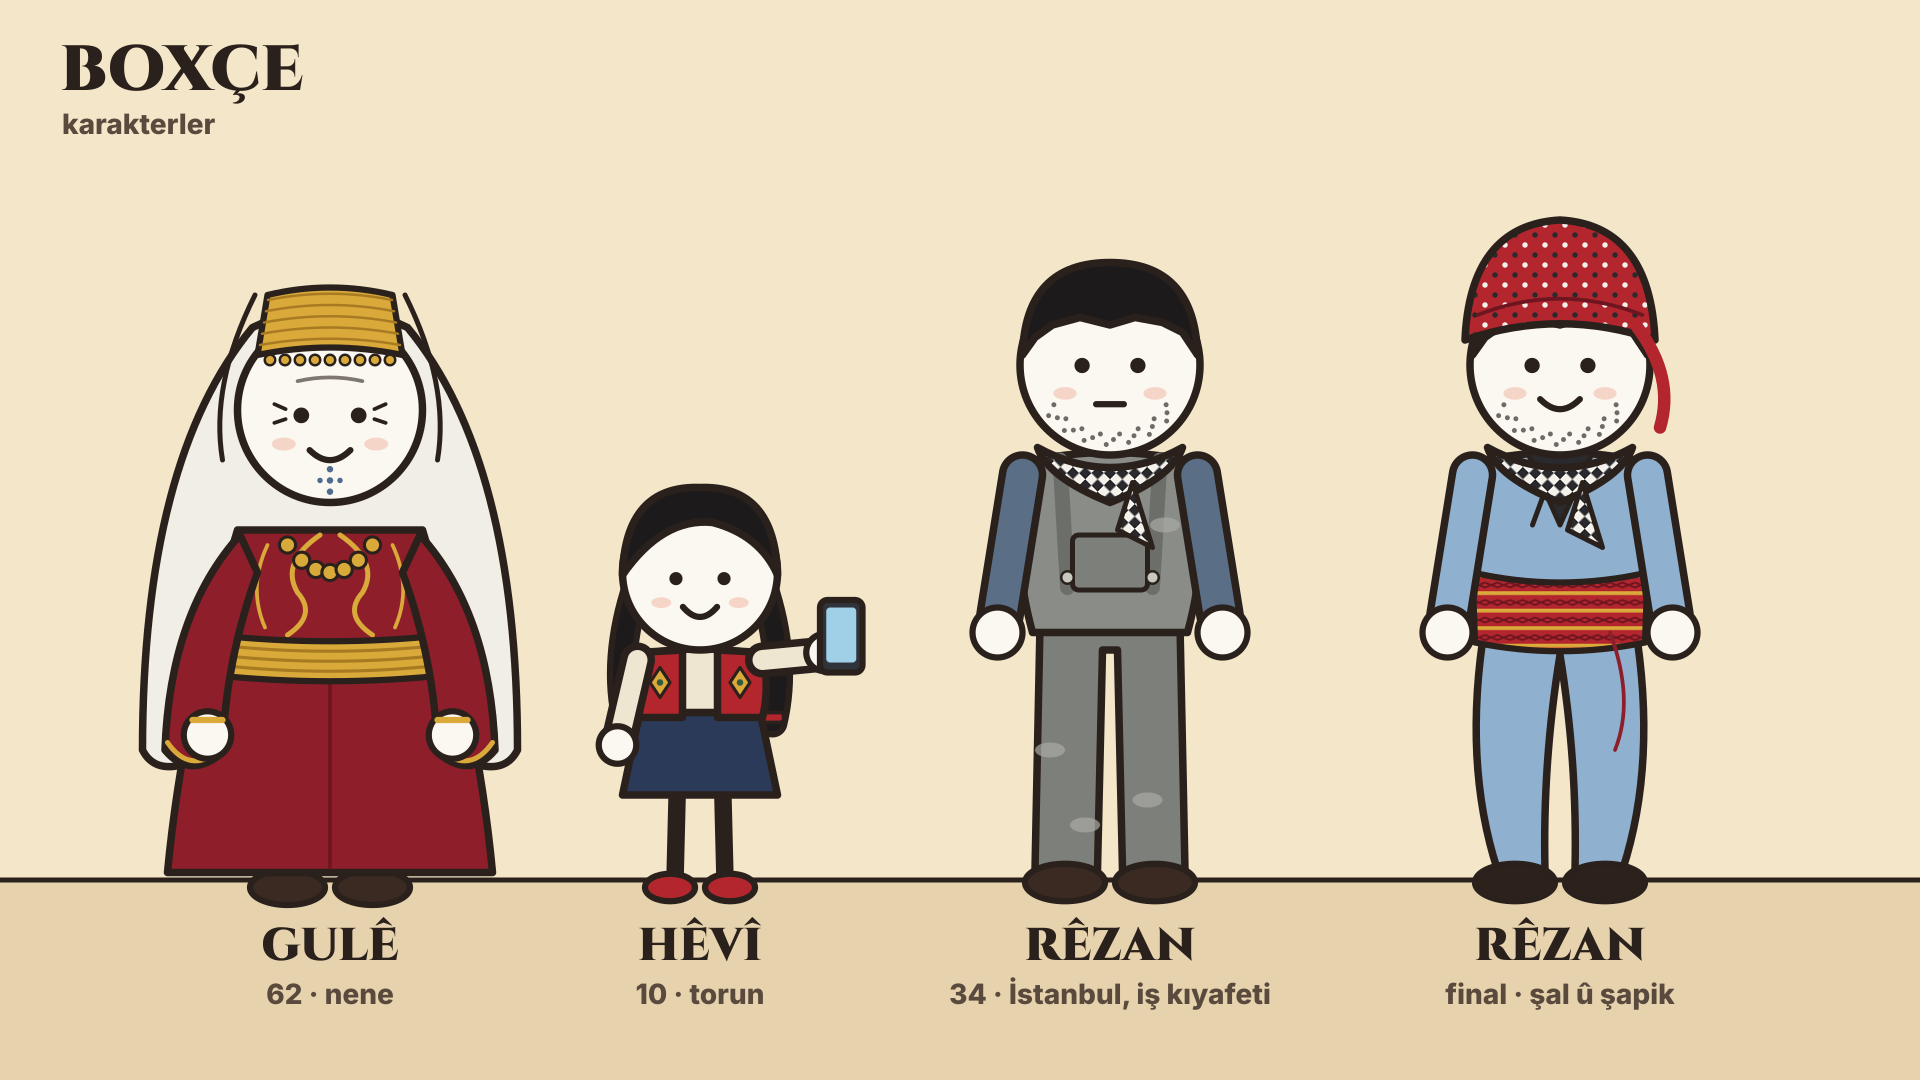
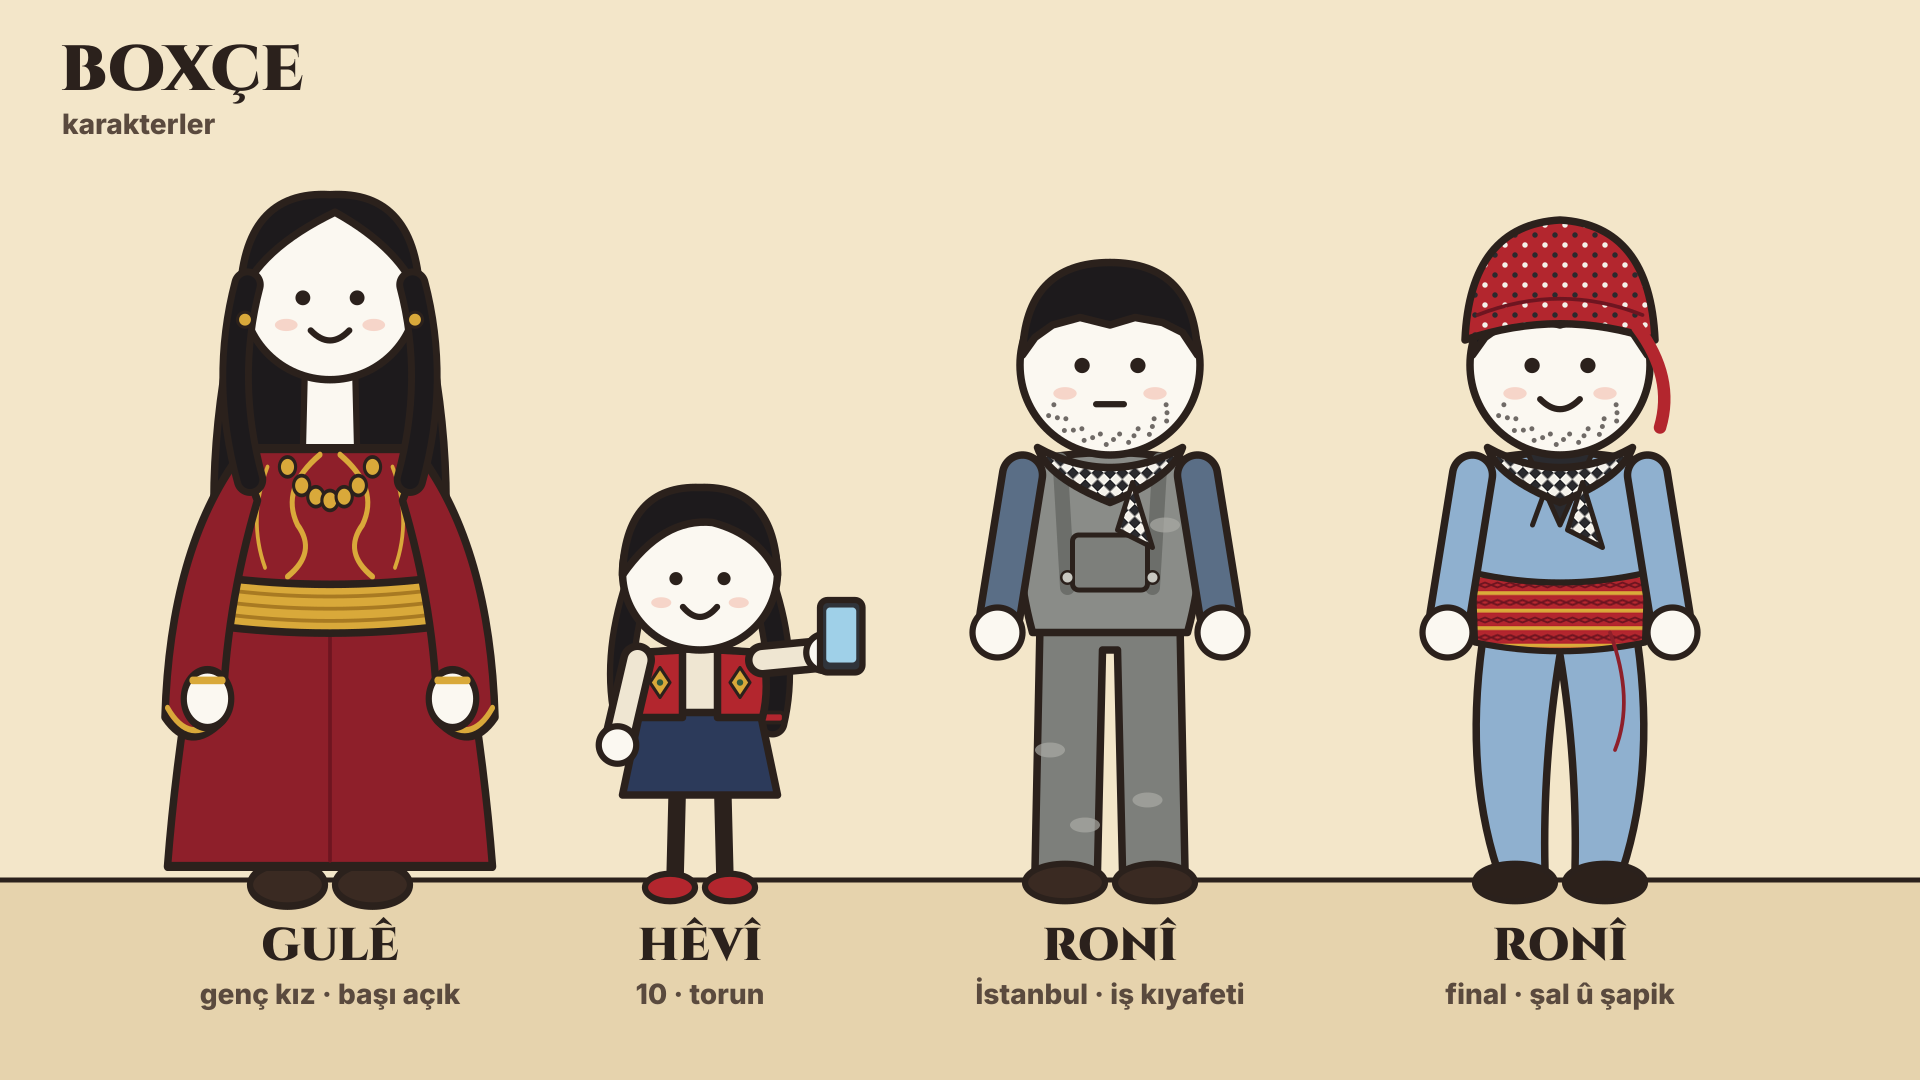
Redraw Gulê as a tall young woman with uncovered hair; rename Rêzan to Ronî
Claude-Session: https://claude.ai/code/session_01YRTfoLGFZnLQwPSsrezw2i

diff --git a/film/boxce/2d/karakter.py b/film/boxce/2d/karakter.py
@@ -147,70 +147,70 @@ def _kember(y, w):
 
 
 def gule(mouth="smile", blink=False, look=0.0, arm="down", writing=False):
-    """Nene, ~470 px. Kofî + uzun beyaz tül, kırmızı kiras (sarkan kollar, altın sırma),
-    altın kemer, para kolye, deq."""
+    """Genç, uzun boylu kız, ~575 px. Başı açık: bele kadar uzun siyah saç.
+    Kırmızı kiras (sarkan kollar, altın sırma), geniş altın kemer, para kolye."""
+    TALL = 1.22                      # vücut dikey uzatma
+    hy = -392 * TALL - 8             # kafa merkezi
+    hr = 70
     g = []
-    hy = -392
-    hr = 74
-    # beyaz tül: başın üstünden dizlere kadar arkaya düşer
-    g.append(path(f"M-62 {hy - 66} Q-150 {hy + 40} -150 -120 Q-140 -100 -112 -110 L112 -110 "
-                  f"Q140 -100 150 -120 Q150 {hy + 40} 62 {hy - 66} Q0 {hy - 96} -62 {hy - 66} Z", "#f1eee6"))
+    # arka saç: bele kadar
+    g.append(path(f"M{-hr + 2} {hy - 10} Q{-hr - 34} {hy + 120} {-hr - 18} {hy + 250} "
+                  f"Q0 {hy + 280} {hr + 18} {hy + 250} Q{hr + 34} {hy + 120} {hr - 2} {hy - 10} Z", "#1d1a1c"))
+    b = []
     # ayaklar
-    g.append(ellipse(-34, -10, 30, 14, "#3a2a22", sw=5))
-    g.append(ellipse(34, -10, 30, 14, "#3a2a22", sw=5))
+    b.append(ellipse(-34, -10, 30, 14, "#3a2a22", sw=5))
+    b.append(ellipse(34, -10, 30, 14, "#3a2a22", sw=5))
     # kiras (yere kadar)
-    g.append(path(f"M-74 -296 Q-118 -150 -130 -22 L130 -22 Q118 -150 74 -296 Z", KIRAS))
-    g.append(path("M0 -200 L0 -26", "none", stroke="#6e1520", sw=3))
+    b.append(path(f"M-74 -296 Q-118 -150 -130 -22 L130 -22 Q118 -150 74 -296 Z", KIRAS))
+    b.append(path("M0 -200 L0 -26", "none", stroke="#6e1520", sw=3))
     # göğüs sırma işlemesi (altın kıvrımlar)
     for sgn in (-1, 1):
-        g.append(path(f"M{sgn * 8} -292 Q{sgn * 40} -270 {sgn * 26} -246 Q{sgn * 10} -228 {sgn * 34} -212",
+        b.append(path(f"M{sgn * 8} -292 Q{sgn * 40} -270 {sgn * 26} -246 Q{sgn * 10} -228 {sgn * 34} -212",
                       "none", stroke=GOLD, sw=4))
-        g.append(path(f"M{sgn * 50} -284 Q{sgn * 66} -250 {sgn * 52} -218", "none", stroke=GOLD, sw=3))
+        b.append(path(f"M{sgn * 50} -284 Q{sgn * 66} -250 {sgn * 52} -218", "none", stroke=GOLD, sw=3))
     # para kolye
     for i in range(7):
         t = (i - 3) / 3
-        g.append(circle(t * 34, -284 + (1 - t * t) * 22, 6.5, GOLD, sw=2.5))
-    g.append(_kember(-196, 92))
+        b.append(circle(t * 34, -284 + (1 - t * t) * 22, 6.5, GOLD, sw=2.5))
+    b.append(_kember(-196, 92))
     # kollar: geniş, sarkan kiras kolları
     if arm == "down":
         for s in (-1, 1):
-            g.append(path(f"M{s * 72} -292 Q{s * 128} -230 {s * 132} -120 Q{s * 112} -96 {s * 86} -118 "
+            b.append(path(f"M{s * 72} -292 Q{s * 128} -230 {s * 132} -120 Q{s * 112} -96 {s * 86} -118 "
                           f"Q{s * 84} -190 {s * 58} -262 Z", KIRAS))
-            g.append(path(f"M{s * 130} -126 Q{s * 112} -100 {s * 88} -120", "none", stroke=GOLD, sw=4))
-            g.append(hand(s * 98, -132))
-            g.append(path(f"M{s * 86} -144 L{s * 110} -144", "none", stroke=GOLD, sw=5))  # bilezik
+            b.append(path(f"M{s * 130} -126 Q{s * 112} -100 {s * 88} -120", "none", stroke=GOLD, sw=4))
+            b.append(hand(s * 98, -132))
+            b.append(path(f"M{s * 86} -144 L{s * 110} -144", "none", stroke=GOLD, sw=5))  # bilezik
     elif arm == "front":
         for s in (-1, 1):
-            g.append(path(f"M{s * 72} -292 Q{s * 130} -230 {s * 110} -150 Q{s * 80} -140 {s * 40} -188 "
+            b.append(path(f"M{s * 72} -292 Q{s * 130} -230 {s * 110} -150 Q{s * 80} -140 {s * 40} -188 "
                           f"Q{s * 60} -230 {s * 56} -262 Z", KIRAS))
-            g.append(path(f"M{s * 108} -156 Q{s * 76} -144 {s * 44} -186", "none", stroke=GOLD, sw=4))
-            g.append(hand(s * 42, -196))
+            b.append(path(f"M{s * 108} -156 Q{s * 76} -144 {s * 44} -186", "none", stroke=GOLD, sw=4))
+            b.append(hand(s * 42, -196))
         if writing:
-            g.append(line(52, -210, 78, -246, stroke="#c79a3a", sw=7))
-            g.append(line(52, -210, 48, -202, stroke=INK, sw=4))
+            b.append(line(52, -210, 78, -246, stroke="#c79a3a", sw=7))
+            b.append(line(52, -210, 48, -202, stroke=INK, sw=4))
     elif arm == "phone":
-        g.append(path("M-72 -292 Q-128 -230 -132 -120 Q-112 -96 -86 -118 Q-84 -190 -58 -262 Z", KIRAS))
-        g.append(hand(-98, -132))
-        g.append(path("M72 -292 Q126 -310 104 -362 L70 -352 Q82 -316 56 -276 Z", KIRAS))
-        g.append(f'<rect x="66" y="-420" width="26" height="52" rx="6" fill="#30343a" stroke="{INK}" stroke-width="5"/>')
-        g.append(hand(84, -372))
+        b.append(path("M-72 -292 Q-128 -230 -132 -120 Q-112 -96 -86 -118 Q-84 -190 -58 -262 Z", KIRAS))
+        b.append(hand(-98, -132))
+        b.append(path("M72 -292 Q126 -310 104 -362 L70 -352 Q82 -316 56 -276 Z", KIRAS))
+        b.append(f'<rect x="66" y="-420" width="26" height="52" rx="6" fill="#30343a" stroke="{INK}" stroke-width="5"/>')
+        b.append(hand(84, -372))
+    # boyun (arka saçın önünde, elbisenin arkasında)
+    g.append(path(f"M-20 {hy + hr - 14} L-22 {-296 * TALL + 14} L22 {-296 * TALL + 14} L20 {hy + hr - 14} Z", SKIN, sw=5))
+    g.append(f'<g transform="scale(1,{TALL})">' + "\n".join(b) + "</g>")
     # kafa
     g.append(circle(0, hy, hr, SKIN))
-    # kofî (altın başlık) + tülün ön kenarı
-    g.append(path(f"M-58 {hy - 44} L-50 {hy - 92} Q0 {hy - 104} 50 {hy - 92} L58 {hy - 44} Q0 {hy - 56} -58 {hy - 44} Z", GOLD, sw=5))
-    for k in range(5):
-        y = hy - 52 - k * 9
-        g.append(path(f"M{-56 + k * 1.6} {y} Q0 {y - 10} {56 - k * 1.6} {y}", "none", stroke=GOLD_D, sw=2))
-    for x in range(-48, 50, 12):
-        g.append(circle(x, hy - 40, 4.2, GOLD, sw=2))   # alına düşen paralar
-    g.append(path(f"M-60 {hy - 92} Q-96 {hy - 20} -86 {hy + 40}", "none", stroke=INK, sw=4))
-    g.append(path(f"M60 {hy - 92} Q96 {hy - 20} 86 {hy + 40}", "none", stroke=INK, sw=4))
-    g.append(face(0, hy + 8, hr, mouth, blink, look, age=1))
-    # deq (çene dövmesi)
-    for dy in (0, 9, 18):
-        g.append(f'<circle cx="0" cy="{hy + hr * 0.64 + dy}" r="2.6" fill="#4f6b8f"/>')
-    g.append(f'<circle cx="-8" cy="{hy + hr * 0.64 + 9}" r="2.2" fill="#4f6b8f"/>')
-    g.append(f'<circle cx="8" cy="{hy + hr * 0.64 + 9}" r="2.2" fill="#4f6b8f"/>')
+    # ön saç: ortadan ayrık, omuzlara düşen iki tutam
+    g.append(path(f"M{-hr - 2} {hy + 6} Q{-hr} {hy - hr - 12} 0 {hy - hr - 8} Q{hr} {hy - hr - 12} {hr + 2} {hy + 6} "
+                  f"Q{hr - 12} {hy - 34} 4 {hy - hr + 6} Q{-hr + 12} {hy - 34} {-hr - 2} {hy + 6} Z", "#1d1a1c"))
+    for sgn in (-1, 1):
+        g.append(path(f"M{sgn * (hr - 4)} {hy - 6} Q{sgn * (hr + 16)} {hy + 70} {sgn * (hr - 6)} {hy + 150}",
+                      "none", stroke=INK, sw=26))
+        g.append(path(f"M{sgn * (hr - 4)} {hy - 6} Q{sgn * (hr + 16)} {hy + 70} {sgn * (hr - 6)} {hy + 150}",
+                      "none", stroke="#1d1a1c", sw=15))
+        g.append(circle(sgn * (hr - 2), hy + 22, 6, GOLD, sw=2.5))   # altın küpe
+    g.append(face(0, hy + 8, hr, mouth, blink, look, age=0))
     return "<g>" + "\n".join(g) + "</g>"
 
 
@@ -262,8 +262,8 @@ def hevi(mouth="smile", blink=False, look=0.0, arm="down", phone=False):
     return "<g>" + "\n".join(g) + "</g>"
 
 
-# ---------------------------------------------------------------- RÊZAN
-def rezan(mouth="flat", blink=False, look=0.0, outfit="is", arm="down"):
+# ---------------------------------------------------------------- RONÎ
+def roni(mouth="flat", blink=False, look=0.0, outfit="is", arm="down"):
     """Oğul, ~510 px. outfit: 'is' (iş tulumu + puşî) | 'sal' (şal û şapik + pişt + puşî)."""
     g = []
     hy, hr = -428, 72

diff --git a/film/boxce/2d/film.py b/film/boxce/2d/film.py
@@ -11,7 +11,7 @@ from multiprocessing import Pool
 import numpy as np
 
 import karakter as K
-from karakter import gule, hevi, rezan, place, DEFS
+from karakter import gule, hevi, roni, place, DEFS
 from sahneler import (W, H, EXTRA_DEFS, koy_dis, ev_ici, insaat, tandir, lamba, dolmus, bohca_kapali,
                       telefon_yakin, defter_yakin, not_yakin, jenerik, camera, ease, lerp, rect, text,
                       ellipse, circle, line, path, simit)
@@ -28,7 +28,7 @@ LINES = [  # (başlangıç sn, karakter, dosya, Kurmancî, Türkçe)
     (37.0, "hevi", "03_hevi_alfabe.mp3", "A… av. Bê… bav. Dê… dayik.", "A – su. B – baba. D – anne."),
     (70.0, "gule", "04_gule_bixer.mp3", "Bi xêr here… bi xêr were.", "Sağ salim git, sağ salim gel."),
     (101.0, "gule_ds", "05_gule_not.mp3", "Kurê min… birçî nemîne.", "Oğlum… aç kalma."),
-    (117.5, "rezan", "06_rezan_ke.mp3", "Dayê… kê ev nivîsî?", "Anne… bunu kim yazdı?"),
+    (117.5, "roni", "06_roni_ke.mp3", "Dayê… kê ev nivîsî?", "Anne… bunu kim yazdı?"),
     (124.0, "gule", "07_gule_min.mp3", "Min bi xwe nivîsî.", "Kendim yazdım."),
     (141.5, "gule_ds", "08_gule_okuma.mp3", "Da… yê. Ez… têr… bûm. Ez… têm… malê.", "Anne. Doydum. Eve geliyorum."),
 ]
@@ -93,8 +93,8 @@ def ch_hevi(T, x, y, s=1.0, flip=False, rest="smile", **kw):
     return place(hevi(mouth=mouth("hevi", T, rest), blink=blink(T, 1.3), **kw), x, y + bob(T, 1, 2.5), s, flip)
 
 
-def ch_rezan(T, x, y, s=1.0, flip=False, rest="flat", **kw):
-    return place(rezan(mouth=mouth("rezan", T, rest), blink=blink(T, 2.2), **kw), x, y + bob(T, 2), s, flip)
+def ch_roni(T, x, y, s=1.0, flip=False, rest="flat", **kw):
+    return place(roni(mouth=mouth("roni", T, rest), blink=blink(T, 2.2), **kw), x, y + bob(T, 2), s, flip)
 
 
 def s0_acilis(t, T):
@@ -185,7 +185,7 @@ def s3_yol(t, T):
 def s4_insaat(t, T, holding=False, z=1.0, cx=960, cy=560):
     b = [insaat(T)]
     arm = "front" if holding else "down"
-    b.append(place(rezan(mouth=mouth("rezan", T, "sad" if holding else "flat"), blink=blink(T, 2.2), arm=arm,
+    b.append(place(roni(mouth=mouth("roni", T, "sad" if holding else "flat"), blink=blink(T, 2.2), arm=arm,
                          look=(0.9 if not holding else 0)), 900, 1010 + bob(T, 2), 1.15))
     if holding:
         b.append(f'<g transform="rotate(-6 900 760)">' + rect(840, 720, 120, 86, "#efebe2", 3, sw=4)
@@ -200,7 +200,7 @@ def s4_insaat(t, T, holding=False, z=1.0, cx=960, cy=560):
 
 
 NOT_GULE = ["KURÊ MIN.", "BIRÇÎ", "NEMÎNE.", "  DAYIKA TE"]
-NOT_REZAN = ["DAYÊ,", "EZ TÊR BÛM.", "EZ TÊM MALÊ."]
+NOT_RONI = ["DAYÊ,", "EZ TÊR BÛM.", "EZ TÊM MALÊ."]
 
 
 def s4a(t, T):
@@ -223,7 +223,7 @@ def s5_telefon(t, T):
     left = (f'<clipPath id="solK"><rect x="0" y="0" width="956" height="{H}"/></clipPath>'
             f'<clipPath id="sagK"><rect x="964" y="0" width="956" height="{H}"/></clipPath>')
     lb = (f'<g clip-path="url(#solK)"><g transform="translate(-260,0)">{insaat(T)}</g>'
-          + place(rezan(mouth=mouth("rezan", T, "smile" if t > 13 else "flat"), blink=blink(T, 2.2), arm="phone",
+          + place(roni(mouth=mouth("roni", T, "smile" if t > 13 else "flat"), blink=blink(T, 2.2), arm="phone",
                         look=0.3), 480, 1060 + bob(T, 2), 1.25) + "</g>")
     gl_rest = "smile"
     rb = (f'<g clip-path="url(#sagK)"><g transform="translate(560,0)">{ev_ici(False, t)}</g>'
@@ -242,7 +242,7 @@ def koy_aksam(t, T, walker=None, z=1.0, cx=960, cy=560, paper=True):
     b.append(path("M590 860 Q610 830 670 834 Q730 830 750 860 Z", "#B3262E", sw=5))   # katlanmış boş bohça
     if walker is not None:
         wx, wy, ws, wt = walker
-        b.append(place(rezan(mouth="smile", blink=False, outfit="sal"), wx, wy + abs(math.sin(wt * 5)) * -6 * ws, ws))
+        b.append(place(roni(mouth="smile", blink=False, outfit="sal"), wx, wy + abs(math.sin(wt * 5)) * -6 * ws, ws))
     look = 1.0 if walker is not None else 0.2
     b.append(place(gule(mouth=mouth("gule", T, "smile"), blink=blink(T, 0), arm="front" if paper else "down",
                         look=look), 400, 1010 + bob(T, 0), 1.15, walker is None))
@@ -258,7 +258,7 @@ def s6a(t, T):
 
 
 def s6b(t, T):
-    return camera(not_yakin(NOT_REZAN, 34, color="#2c4a7a", cloth=False), lerp(1.0, 1.08, t / 10.5))
+    return camera(not_yakin(NOT_RONI, 34, color="#2c4a7a", cloth=False), lerp(1.0, 1.08, t / 10.5))
 
 
 def s6c(t, T):

diff --git a/film/boxce/2d/karakter_sayfasi.py b/film/boxce/2d/karakter_sayfasi.py
@@ -1,6 +1,6 @@
 """Karakter tasarım sayfası: python3 karakter_sayfasi.py <cikti.png>"""
 import sys, subprocess, os
-from karakter import gule, hevi, rezan, svg_doc, place, INK
+from karakter import gule, hevi, roni, svg_doc, place, INK
 
 W, H = 1920, 1080
 body = []
@@ -9,10 +9,10 @@ body.append(f'<rect x="0" y="880" width="{W}" height="200" fill="#e6d3ad"/>')
 body.append(f'<line x1="0" y1="880" x2="{W}" y2="880" stroke="{INK}" stroke-width="5"/>')
 body.append(place(gule(mouth="smile"), 330, 900, 1.25))
 body.append(place(hevi(mouth="smile", arm="point", phone=True), 700, 900, 1.25))
-body.append(place(rezan(mouth="flat", outfit="is"), 1110, 900, 1.25))
-body.append(place(rezan(mouth="smile", outfit="sal"), 1560, 900, 1.25))
-labels = [(330, "GULÊ", "62 · nene"), (700, "HÊVÎ", "10 · torun"),
-          (1110, "RÊZAN", "34 · İstanbul, iş kıyafeti"), (1560, "RÊZAN", "final · şal û şapik")]
+body.append(place(roni(mouth="flat", outfit="is"), 1110, 900, 1.25))
+body.append(place(roni(mouth="smile", outfit="sal"), 1560, 900, 1.25))
+labels = [(330, "GULÊ", "genç kız · başı açık"), (700, "HÊVÎ", "10 · torun"),
+          (1110, "RONÎ", "İstanbul · iş kıyafeti"), (1560, "RONÎ", "final · şal û şapik")]
 for x, n, d in labels:
     body.append(f'<text x="{x}" y="960" text-anchor="middle" font-family="Cinzel" font-weight="900" '
                 f'font-size="46" fill="{INK}">{n}</text>')

diff --git a/film/boxce/blender/sahne4.py b/film/boxce/blender/sahne4.py
@@ -141,7 +141,7 @@ box("vinc_kule", (0.5, 0.5, 22.4), (-9, 30, 11.2), VINC)
 box("vinc_kol", (16, 0.4, 0.4), (-4, 30, 22.6), VINC)
 box("vinc_karsi", (2, 0.8, 0.8), (-13.5, 30, 22.4), VINC)
 cyl("vinc_halat", 0.02, 9, (3, 30, 18), VINC, v=4)
-# baret (Rêzan'ın), soluk sarı
+# baret (Ronî'ın), soluk sarı
 ball("baret", 0.15, (-0.48, 0.08, 0.45), BARET, scale=(1, 1.15, 0.75))
 cyl("baret_siper", 0.17, 0.015, (-0.48, 0.06, 0.455), BARET, v=20)
 

diff --git a/film/boxce/2d/sahneler.py b/film/boxce/2d/sahneler.py
@@ -4,7 +4,7 @@ Her sahne fonksiyonu `(t, ctx) -> svg_body` döndürür. t: sahne içi saniye.
 ctx: {"mouth": {karakter: ağız}, "blink": {karakter: bool}} — film.py doldurur.
 """
 import math, random
-from karakter import (gule, hevi, rezan, place, path, circle, ellipse, line, limb,
+from karakter import (gule, hevi, roni, place, path, circle, ellipse, line, limb,
                       INK, SW, SKIN, GOLD, GOLD_D, KIRAS)
 
 W, H = 1920, 1080

diff --git a/film/boxce/senaryo.md b/film/boxce/senaryo.md
@@ -5,7 +5,7 @@ Kurmancî, TR altyazılı. İlham: Japon annelerinin *obentō* kutusu ve içine 
 ## Karakterler
 - **Gulê** (62) — okuma yazma bilmeyen nene
 - **Hêvî** (10) — torunu
-- **Rêzan** (34) — oğlu, İstanbul'da inşaat işçisi
+- **Ronî** (34) — oğlu, İstanbul'da inşaat işçisi
 
 ## Senaryo
 
@@ -19,12 +19,12 @@ Kurmancî, TR altyazılı. İlham: Japon annelerinin *obentō* kutusu ve içine 
 **3. Köy yolu, şafak.** Gulê kırmızı bohçayı minibüse veriyor.
 - GULÊ: Bi xêr here, bi xêr were. *(Sağ salim git, sağ salim gel.)*
 
-**4. İstanbul inşaatı, öğle.** Gri beton; Rêzan yalnız. Bohçayı açınca kırmızı bir renk patlıyor. İçinde eğri harflerle bir not:
+**4. İstanbul inşaatı, öğle.** Gri beton; Ronî yalnız. Bohçayı açınca kırmızı bir renk patlıyor. İçinde eğri harflerle bir not:
 *"KURÊ MIN. BIRÇÎ NEMÎNE. DAYIKA TE"* (Oğlum. Aç kalma. Annen)
 - GULÊ (dış ses): Kurê min… birçî nemîne. *(Oğlum… aç kalma.)*
 
 **5. Telefon.**
-- RÊZAN: Dayê… kê ev nivîsî? *(Anne… bunu kim yazdı?)*
+- RONÎ: Dayê… kê ev nivîsî? *(Anne… bunu kim yazdı?)*
 - GULÊ: Min bi xwe nivîsî. *(Kendim yazdım.)*
 
 **6. Köy, gün batımı.** Boş bohça geri gelmiş. Gulê notu kendisi, hece hece okuyor:
@@ -36,6 +36,6 @@ Uzakta yolda biri görünüyor. Kararma.
 - **Görsel:** VRoid Studio (karakterler) → Mixamo (hareket) → Blender toon shader (render); dudak senkronu Rhubarb Lip Sync.
 - **Ses:** ElevenLabs eleven_v4. Kurmancî metin hazır seslerle okunuyor (Voice Design Kürtçeyi kabul etmiyor).
   - Gulê: Dilara (`D2dHiTSPRx6l2bhKGmyJ`) — deneme: `ses/gule_test.mp3`
-  - Rêzan: Agit Taşdemir (`qLctY6uJSzrtjp23kPzO`)
+  - Ronî: Agit Taşdemir (`qLctY6uJSzrtjp23kPzO`)
   - Hêvî: Mithi (`MIl0Flub6Sc9KSkX2A42`)
 - **Replikler:** `ses/01…08_*.mp3` (sahne sırasıyla). Her biri ElevenLabs Scribe ile Kürtçe transkribe edilip kontrol edildi; metin Mazdek ile yazım/dilbilgisi kontrolünden geçti.
